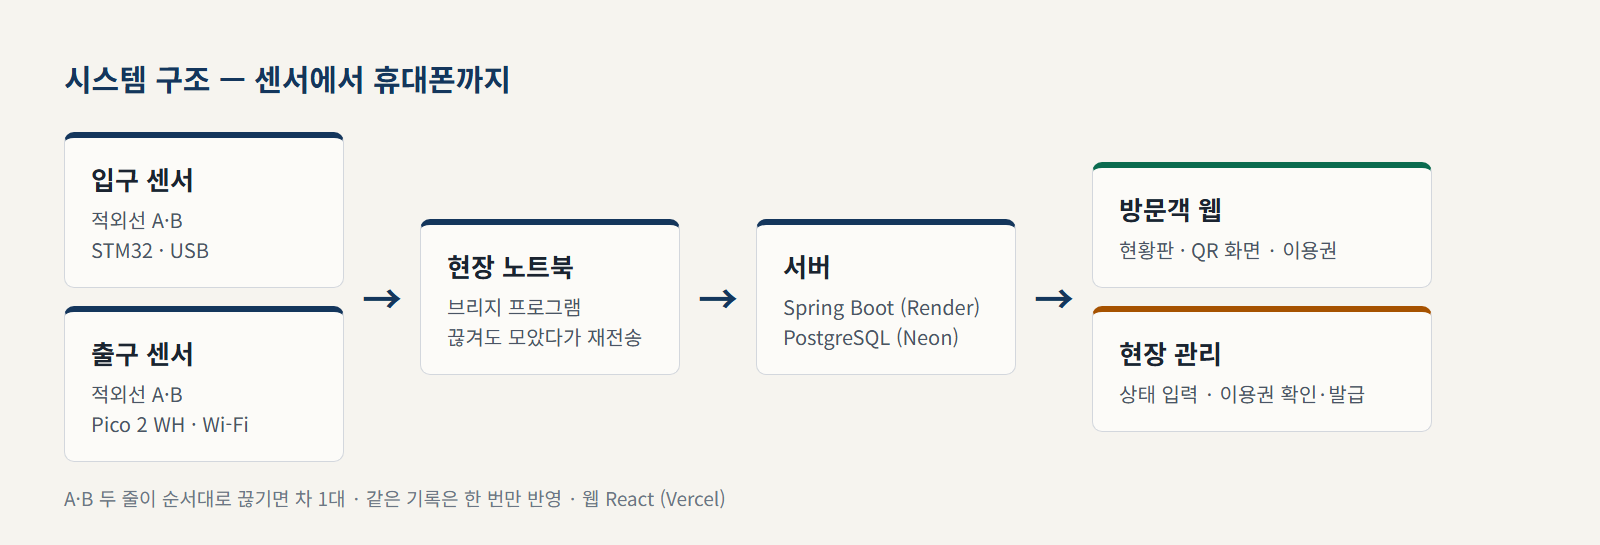
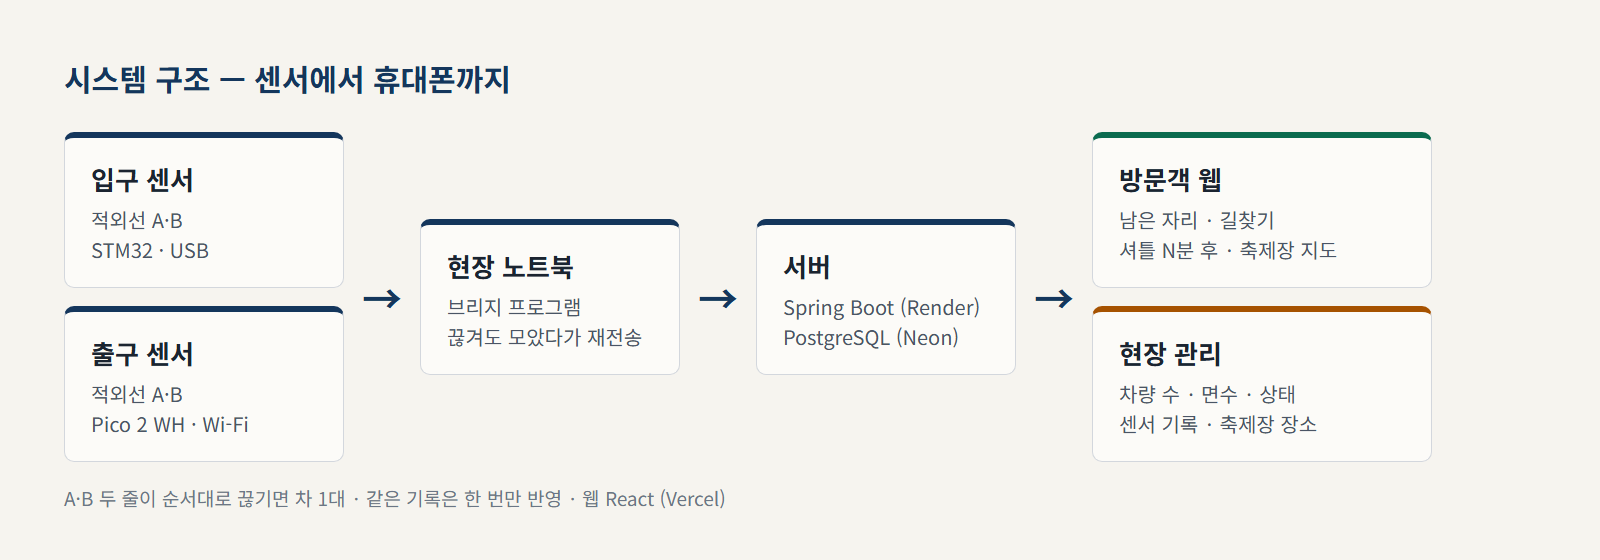
기획문서 v3(ERD V1~V6·API 15개·셔틀 규칙), 구조도·흐름도와 화면 캡처를 현재 화면으로 교체

diff --git a/docs/img/diagrams.html b/docs/img/diagrams.html
@@ -36,22 +36,22 @@ h1 { font-size: 30px; font-weight: 700; color: #14365C; margin-bottom: 32px; }
 <div class="box" style="width:260px;"><h3>서버</h3><p>Spring Boot (Render)<br>PostgreSQL (Neon)</p></div>
 <div class="arrow">→</div>
 <div class="col" style="width:340px;">
-<div class="box gift"><h3>방문객 웹</h3><p>현황판 · QR 화면 · 이용권</p></div>
-<div class="box busy"><h3>현장 관리</h3><p>상태 입력 · 이용권 확인·발급</p></div>
+<div class="box gift"><h3>방문객 웹</h3><p>남은 자리 · 길찾기<br>셔틀 N분 후 · 축제장 지도</p></div>
+<div class="box busy"><h3>현장 관리</h3><p>차량 수 · 면수 · 상태<br>센서 기록 · 축제장 장소</p></div>
 </div>
 </div>
 <p class="note">A·B 두 줄이 순서대로 끊기면 차 1대 · 같은 기록은 한 번만 반영 · 웹 React (Vercel)</p>
 </div>
 
 <div class="board" id="flow">
-<h1>서비스 흐름 — 먼 주차장에 대면 무료이용권</h1>
+<h1>서비스 흐름 — 여유 있는 먼 주차장에 대고 셔틀로</h1>
 <div class="row" style="align-items:stretch;">
-<div class="step"><p class="n">1</p><p class="t">먼 주차장에 주차</p><p class="d">강 건너 위라리 둔치<br>(화천대교 쪽)</p></div>
-<div class="step"><p class="n">2</p><p class="t">입구 안내판 QR</p><p class="d">휴대폰 카메라로 찍기</p></div>
-<div class="step"><p class="n">3</p><p class="t">센서가 입차 확인</p><p class="d">실제로 들어온 차만</p></div>
-<div class="step key"><p class="n">4</p><p class="t">무료이용권</p><p class="d">눈썰매 등 체험 2회<br>(낚시 제외, 검토 중)</p></div>
-<div class="step"><p class="n">5</p><p class="t">셔틀로 축제장</p><p class="d">안내소에서 이용권 사용</p></div>
+<div class="step"><p class="n">1</p><p class="t">현황 보기</p><p class="d">"여기에 대세요"<br>남은 자리 많은 곳 추천</p></div>
+<div class="step"><p class="n">2</p><p class="t">카카오맵 길찾기</p><p class="d">지금 위치 → 주차장<br>버튼 한 번</p></div>
+<div class="step key"><p class="n">3</p><p class="t">위라리 둔치 주차</p><p class="d">입구 센서가 세서<br>남은 자리 바로 반영</p></div>
+<div class="step"><p class="n">4</p><p class="t">셔틀 타기</p><p class="d">다음 셔틀 N분 후<br>축제장까지 약 10분</p></div>
+<div class="step"><p class="n">5</p><p class="t">축제장 즐기기</p><p class="d">낚시터·체험장·먹거리<br>지도로 찾기</p></div>
 </div>
-<p class="note">휴대폰이 어려운 분은 주차장 직원이 차량번호로 대신 발급 · 입차 1건 = 1장 · 차량당 하루 1장</p>
+<p class="note">먼 주차장에 대고 셔틀을 타면 체험 이용권(화천군 지급) · 직원은 현장 관리 화면에서 차량 수·면수를 바로 고침</p>
 </div>
 </body></html>

diff --git a/docs/기획문서.md b/docs/기획문서.md
@@ -1,135 +1,138 @@
-# 화천 Parking Mate 기획문서 (v2, 2026-11-15)
+# 산천어축제 안내 기획문서 (v3, 2026-11-16)
 
-> **2026-11-16 변경:** 팀 결정으로 QR·무료이용권 기능을 코드에서 뺐다. 지금 서비스는 남은 자리 안내(센서 집계) + 셔틀 안내 + 현장 관리다. 아래 이용권·QR 관련 내용은 결정 이전 기록이며, 발표 흐름은 새로 정해야 한다.
+KNU RE:RISE 7팀 · 배포: 웹 https://parking-mate.vercel.app · 서버 https://parkingmate-api.onrender.com (API 명세 `/swagger-ui.html`)
 
 ## 1. 한 줄 정의
-축제 주차장의 **남은 자리**를 실시간으로 보여 주고, **먼 임시주차장에 주차한 방문객에게 무료이용권**을 주어 스스로 분산 주차하게 만드는 서비스.
+축제 임시주차장의 **남은 자리**를 입·출구 센서로 세어 보여 주고, **셔틀 도착 시간·예상 위치**와 **축제장 안내 지도**를 함께 제공해서, 방문객이 가까운 주차장에 몰리지 않고 **여유 있는 먼 주차장에 대고 셔틀로 오게** 돕는 서비스.
 
-## 2. 방향이 바뀐 이유 (2026-11-12 교통 담당자 인터뷰)
+## 2. 방향이 바뀐 과정
+### 2-1. 2026-11-12 교통 담당자 인터뷰 후
 | 기존 구상 | 담당자 의견 | 바뀐 방향 |
 |---|---|---|
 | QR 예약 전용 주차장, 30분 자리 확보 | 현장 차량만으로도 이미 만차라 예약 자리를 비워 둘 수 없음. 고령 방문객이 많아 젊은 층 특혜로 보일 수 있음 | 예약은 하지 않음 |
-| 빈자리 기준 자동 배정 | 방문객은 "나 한 대 댈 자리는 있겠지" 하며 가까운 주차장으로 감. 강 건너 부지는 심리적으로 멀게 느낌 | **먼 주차장에 댈 이유(혜택)**를 줌 |
-| 센서로 입·출차 집계 | 지금은 직원이 주차장마다 직접 보고 공유함. 눈이 오면 주차선이 안 보여 사람이 판단해야 함 | 센서 집계 + **관리자가 운영 가능 면수와 상태를 수정** |
-| — | 먼 주차장 이용자에게 무료이용권을 주는 방안을 검토 중. 확인과 발급 과정을 편하게 해 주면 좋겠음 | **실물 QR → 주차 확인 → 이용권 발급·사용 처리** |
+| 빈자리 기준 자동 배정 | 방문객은 "나 한 대 댈 자리는 있겠지" 하며 가까운 주차장으로 감. 강 건너 부지는 심리적으로 멀게 느낌 | **먼 주차장에 댈 이유**를 줌 |
+| 센서로 입·출차 집계 | 지금은 직원이 주차장마다 직접 보고 무전으로 공유. 눈이 오면 주차선이 안 보여 사람이 판단 | 센서 집계 + **직원이 운영 가능 면수·상태를 수정** |
+
+### 2-2. 2026-11-16 팀 결정
+- **이용권 발급·QR 기능은 뺌.** 이용권 지급은 화천군(축제 운영) 쪽이 맡는 게 맞다고 판단. 서비스에는 "위라리 둔치에 대고 셔틀을 타면 체험 이용권을 드려요" **안내만** 남김.
+- 대신 방문객이 "어디에 대고, 셔틀은 언제 오고, 축제장에서 뭘 할 수 있는지"를 한 번에 알도록 **셔틀 예상 위치·남은 시간**과 **축제장 안내 지도**를 추가.
 
 ## 3. 사용자와 화면
 ### 방문객 (스마트폰)
-1. **지도 홈 `/`**: 모든 임시주차장, 남은 자리 또는 혼잡 상태, 셔틀 정류장 표시. 혜택 주차장 강조. 카카오맵 길찾기.
-2. **주차장 QR 화면 `/p/{주차장코드}`**: 주차장 입구 안내판의 실물 QR을 찍으면 열림. 이 주차장의 남은 자리, 가장 가까운 셔틀 다음 출발 시각, **무료이용권 받기**(차량번호 입력).
-3. **이용권 화면 `/v/{이용권코드}`**: 축제장 안내소에서 보여 줄 큰 코드와 QR.
-4. **셔틀 시간표 `/shuttle`**.
+| 화면 | 주소 | 하는 일 |
+|---|---|---|
+| 주차장 현황 | `/` | 맨 위 **"여기에 대세요"** 추천 1곳(남은 자리·셔틀·이용권). 여유/혼잡/만차 개수, 지도, 목록. 주차장을 누르면 화면 아래에 **[카카오맵 길찾기] [자세히]** |
+| 주차장 상세 | `/p/{코드}` | 남은 자리, 카카오맵 길찾기, 이용 혜택 안내, 그 정류장 다음 셔틀 N분 후, 셔틀로 축제장까지 N분 |
+| 셔틀 | `/shuttle` | 버스 앱처럼 **정류장 한 줄** + 정류장 사이 버스 위치, 정류장마다 "N분 후", 축제장 앞 정류장 표시. 지도는 "지도로 보기" |
+| 축제장 안내 | `/festival` | 낚시터·체험장·먹거리·접수처 25곳 지도와 목록, 요금, 길찾기 |
 
-### 현장 직원·담당자 (노트북·휴대폰)
-5. **관리 화면 `/admin`**: 주차장별 차량 수 +/− 수정, 운영 가능 면수(눈 올 때), 상태(여유·혼잡·만차·운영중지) 지정. 이용권 확인·사용 처리. **스마트폰을 못 쓰는 방문객 대리 발급**.
+### 현장 직원·담당자 (휴대폰·노트북) `/admin`
+- **주차장 탭**: 주차장 지도(지금 차량 수, 5초 갱신, 핀을 누르면 그 주차장 조정 칸으로), 센서 기록(오늘 입차·출차, 입구·출구 연결 상태), 주차장별 차량 수 ±1/±10, 상태(자동·여유·혼잡·만차·운영 안 함), 운영 가능 면수(눈 올 때), 시연 초기화
+- **축제장 장소 탭**: 지도를 눌러 장소 추가, 핀을 눌러 수정·위치 이동·삭제
 
-## 4. 이용권 발급 규칙 (부정 발급 방지)
-- 혜택 대상 주차장에서만 발급. 담당자가 말한 대상은 **강 건너 화천대교 쪽 큰 부지(위라리 둔치로 추정)** 뿐 (녹음 10:10, 17:13~18:24). 실버복지센터·구 헌병대는 팀 확대 후보로만 기록(이용권 꺼 둠).
-- **차량번호 1대당 하루 1장**.
-- 센서가 설치된 주차장은 **최근 90분 안에 센서가 기록한 입차 1건과 이용권 1장을 짝지음**. 입차 기록이 남아 있지 않으면 발급하지 않고 직원에게 안내함. 집에서 QR 사진만 찍어서 받는 것을 막고, 실제로 들어온 차보다 많이 발급되지 않음.
-- 직원 대리 발급은 센서 짝이 없어도 가능하며 기록에 "직원 발급"으로 남김.
-- 이용권 종류는 **검토 중**. 녹음 10:20~11:05: "눈썰매나 이런 프로그램들, 낚시는 제외하고, 기타 놀거리들, 두 번 탈 수 있는 정도". 화면에는 "체험 프로그램 무료이용권 · 눈썰매 등 2회(낚시 제외)" + "검토 중" 표시.
+## 4. 셔틀 계산 규칙
+- 공식 노선(2026): 화천체육관 → 청소년 수련관 → 화천실버복지센터 → 구 헌병대 → 정보산업고 → 시외버스터미널 → 배수펌프장 → 다시 체육관. 토·일 09:00~18:00, 약 20분 간격, 4대.
+- 정류장 사이 시간은 공개되지 않아 **10분으로 추정** → 한 바퀴 70분.
+- **버스 위치** = 첫 정류장 출발 시각부터 흐른 시간으로 계산한 **예상 위치**(실시간 GPS 아님). 화면에 그렇게 표시.
+- **축제장 앞 정류장** = 축제장 장소(낚시터·체험장 등) 300m 안 정류장: 청소년 수련관·구 헌병대·배수펌프장. "축제장까지 N분" = 탄 정류장에서 처음 만나는 축제장 앞 정류장까지.
+- `SHUTTLE_ALWAYS=true`(시연용 기본값): 운행표와 관계없이 매일 0시부터 20분 간격으로 계속 도는 것으로 계산. 실제 운영 시 `false`.
 
-### 녹음에서 확인된 운영 사실 (2026-11-12, 00:00~14:00)
+## 5. 인터뷰 기록 (2026-11-12, 녹음 대조)
+### 운영 사실 (00:00~14:00)
 - 금요일부터 증가, 월요일까지 감소. 화·수·목은 임시주차장 여유, 그 외 60~80% (00:30~01:32)
 - 토요일은 8시 30분이면 모든 주차장 만차 (04:29)
 - 축제장 양쪽 일방통행 구간 노상주차 운영, 불법주정차 구역은 별도 (01:47, 02:03)
 - 강 건너 큰 부지로 유도하려 하나 "강을 건너야 한다는 생각"에 잘 안 감. 진입을 막으면 정체가 길어져 결국 받아들임 (04:50~06:38)
 - 셔틀 20분 간격 (06:38). 인력: 올해 90명, 내년 120명, 주차장당 최소 6명, 무전으로 확인 (07:23~09:19). 차량 수는 "사람이 일일이 확인" (08:08)
 - 화천초 160면 (09:57). 2027 사용 여부는 녹음상 불명확 → 확인 필요
+- 이용권: "눈썰매나 이런 프로그램들, 낚시는 제외하고… 두 번 탈 수 있는 정도" (10:20~11:05)
 
-### 녹음 후반 (14:00~22:30)
-- **예약 주차장이 안 되는 이유**: "예약 낚시터분들도 5시에 오고 현장 낚시터분들도 5시에 와요… 주차 예약을 한다고 하면 이거를 비워놓는 상황이 생기잖아요" (15:11)
-- **고령층**: "키오스크를 어려워하시는 분들이 굉장히 많으신데… QR 주차장은 젊은 층에 대한 특혜라고 생각이 들어요" (15:11~16:40)
-- **담당자가 제안한 흐름 = 지금 구현**: "무료이용권을 주는 주차장에 적용을 하면, 차라리 QR로 하면 내가 이 주차장에 대겠다고 하는" (16:58) → "주차를 한 게 확인이 되면 무료이용권을 발급하고 핸드폰으로 발송을 하듯, 아니면 직접 컴퓨터를 가져와서 연동을 해서" (17:15~17:56)
-  - 우리 구현: QR → 센서 입차 확인 → 휴대폰 이용권(본인 발급) / 현장 노트북 관리 화면(직원 발급)
-- **셔틀**: 이용객이 많으면 "3대에서 5대까지 증차할 생각" (18:26). 공식 안내는 4대 → 시드는 공식값 4대 유지
-- **자료**: 교통계획은 담당자 보유, 일방통행·셔틀은 재단법인 나라 홈페이지 (19:14). "멘토링 할 때 따로 공개" — **멘토링 때 공유 약속, 아직 받지 않음** (19:38)
-- **500대**: 녹음에 없음 → 팀 통화 필기 값으로만 기록
+### 후반 (14:00~22:30)
+- 예약 주차장이 안 되는 이유: "주차 예약을 한다고 하면 이거를 비워놓는 상황이 생기잖아요" (15:11)
+- 고령층: "QR 주차장은 젊은 층에 대한 특혜라고 생각이 들어요" (16:40)
+- 담당자 제안: 먼 주차장 이용자에게 무료이용권 (16:58~18:24)
+- 셔틀: 이용객이 많으면 3~5대로 증차 생각 (18:26)
+- 자료: 교통계획은 담당자 보유, 일방통행·셔틀은 재단법인 나라 홈페이지. "멘토링 할 때 따로 공개" (19:14~19:38)
+- 500대: 녹음에 없음 → 팀 통화 필기 값
 
-### 현장 고충 (발표·문서용, 20:13~21:32)
-- 교통 통제 권한은 경찰에 있고, 일자리 근로자는 민간인이라 권한이 없음
-- 조례로는 법을 넘을 수 없어 법적 제도가 있으면 안전하게 보장받을 것 같다는 의견
-- 통제 중 사고가 나면 통제한 사람 책임 → 부담이 큼. 지역 자체가 고령화
-- 이 서비스와의 연결: 강제 통제 대신 **혜택으로 스스로 분산**하게 하는 방식이라 현장 인력의 통제 부담을 줄이는 방향 (기대효과, 미측정)
+### 현장 고충 (20:13~21:32)
+- 교통 통제 권한은 경찰에 있고, 일자리 근로자는 민간인이라 권한이 없음. 통제 중 사고가 나면 통제한 사람 책임 → 부담이 큼
+- 이 서비스와의 연결: 막아서 돌려보내는 대신 **정보와 혜택으로 스스로 분산**하게 해 통제 부담을 줄이는 방향 (기대효과, 미측정)
 
-## 5. 데이터 출처 원칙
+## 6. 데이터 출처
 | 데이터 | 출처 | 상태 |
 |---|---|---|
-| 임시주차장 11개소 + 캠핑카 1개소 이름 | 재단법인 나라 2026 축제 「임시 주차장 안내」 배치도 | 공식(2026) — 2027 업데이트 예정 |
-| 주말 셔틀 노선·시간 | 같은 사이트 「축제장 외부 주말 셔틀」: 토·일 09:00~18:00, 4대 순환, 약 20분 간격 | 공식(2026) |
-| 좌표 | OpenStreetMap 건물 위치. 없는 곳은 공식 배치도에서 **근사(±150m)** | 카카오 로컬 API로 보정 예정 |
-| 정류장별 도착 시각(수정) | 정류장 간 10분으로 추정 (4대·20분 간격 순환 기준) | 추정 |
-| 수용 면수 | 화천초 160면(녹음 09:57), 강 건너 부지 약 500대(팀 통화 필기) | 나머지는 **미확인** → "정보없음" 표시 |
-| 이용권 종류·수량 | 녹음 10:20: 눈썰매 등 2회, 낚시 제외 — 담당자 검토 중 | 검토 중 |
+| 임시주차장 11개소 + 캠핑카 1개소 | 재단법인 나라 2026 「임시 주차장 안내」 배치도 | 공식(2026) |
+| 주말 셔틀 노선·시간 | 같은 사이트 「축제장 외부 주말 셔틀」 | 공식(2026) |
+| 축제장 장소 25곳·요금 | 같은 사이트 「행사장 안내도」「산천어축제 체험료」 | 공식(2026) |
+| 좌표 | OSM 건물 위치, 없는 곳은 안내도를 지도에 맞춘 근사값(100~150m) | 카카오 장소 검색으로 보정 예정 |
+| 정류장별 시각 | 정류장 간 10분 추정 | 추정 |
+| 수용 면수 | 화천초 160면(녹음), 위라리 둔치 약 500대(팀 통화 필기) | 나머지 미확인 → "정보없음" |
 
-화면과 데이터에는 출처 상태를 함께 저장하고, 추정값을 공식값처럼 보여 주지 않는다.
-
-## 6. 시스템 구성
+## 7. 시스템 구성
 ```
 [입구 적외선 A·B] → STM32 ─USB─┐
-                               ├→ 노트북 브리지(sensor/bridge.py) ─HTTPS JSON→ Spring Boot API ─ PostgreSQL
-[출구 적외선 A·B] → Pico 2 WH ─Wi-Fi(HTTP)─┘                              ↑
-                                                         React 웹(방문객·관리자) ─┘
+                               ├→ 노트북 브리지(sensor/bridge.py) ─HTTPS JSON→ Spring Boot API ─ PostgreSQL(Neon)
+[출구 적외선 A·B] → Pico 2 WH ─Wi-Fi─┘                                    ↑
+                                              React 웹(방문객·현장 관리, Vercel) ┘
 ```
-- 프론트: React + Vite → **Vercel**
-- 백엔드: Spring Boot 4 (Java 21) → **Render** 무료 웹 서비스(Docker). 15분 동안 요청이 없으면 잠들고 깨는 데 약 1분 걸림 → 시연 전에 미리 깨워 두기.
-- DB: PostgreSQL → **Neon** 무료. 로컬 개발은 H2(PostgreSQL 모드)로 DB 설치 없이 실행.
-- 대안: 시연장 인터넷이 불안하면 노트북에서 백엔드를 직접 실행.
+- 프론트 React + Vite → Vercel / 백엔드 Spring Boot 4 (Java 21) → Render(Docker) / DB PostgreSQL → Neon
+- 지도: 카카오맵(JavaScript 키, 도메인 등록 필요), 실패 시 OpenStreetMap
+- main 에 push 하면 Vercel·Render 자동 배포. Render 무료 서버는 15분 미사용 시 잠듦(첫 접속 약 1분)
 
-## 7. ERD
+## 8. ERD (Flyway V1~V6)
 ```
-parking_lot 1──N sensor_device 1──N vehicle_event N──0..1 voucher
-parking_lot 1──N voucher N──1 benefit
-shuttle_route 1──N shuttle_stop N──0..1 parking_lot
+parking_lot 1──N sensor_device 1──N vehicle_event
+parking_lot 1──N vehicle_event
+shuttle_route 1──N shuttle_stop
+festival_place (독립)
 ```
-| 테이블 | 주요 컬럼 |
+| 테이블 | 컬럼 |
 |---|---|
-| parking_lot | id, code(UK, QR 주소), name, category, lat, lng, coord_source, capacity, capacity_source, operable_capacity, current_count, manual_status, incentive, sensor_enabled, shuttle_stop, note, data_source, updated_at, version |
-| sensor_device | id, device_id(UK), lot_id(FK), gate(ENTRY/EXIT), last_seq, last_seen_at |
-| vehicle_event | id, device_id, lot_id(FK), direction(IN/OUT), seq, occurred_at, received_at, voucher_id(FK, 짝지은 이용권) · UK(device_id, seq) |
-| benefit | id, name, description, active, is_example |
-| voucher | id, code(UK), lot_id, benefit_id, plate_number, festival_date, channel(SELF/STAFF), status(ISSUED/REDEEMED/VOID), issued_at, redeemed_at · UK(plate_number, festival_date) |
-| shuttle_route | id, name, days, first_departure, last_departure, interval_minutes, bus_count, source |
-| shuttle_stop | id, route_id, seq, name, lat, lng, offset_minutes, offset_source, lot_id |
+| parking_lot | id PK, code UK, name, category(REMOTE/SHUTTLE/NEAR/ACCESSIBLE/CAMPING), lat, lng, coord_source, capacity, capacity_source, operable_capacity, current_count, manual_status(AUTO/AVAILABLE/BUSY/FULL/CLOSED), incentive(이용권 안내 대상), sensor_enabled, shuttle_stop, note, data_source, sort_order, updated_at, version |
+| sensor_device | id PK, device_id UK, lot_id FK→parking_lot, gate(ENTRY/EXIT), last_seq, last_seen_at |
+| vehicle_event | id PK, device_id, lot_id FK→parking_lot, direction(IN/OUT), seq, occurred_at, received_at · UK(device_id, seq) |
+| shuttle_route | id PK, name, days, first_departure, last_departure, interval_minutes, bus_count, source |
+| shuttle_stop | id PK, route_id FK→shuttle_route, seq, name, lat, lng, offset_minutes, offset_source, coord_source |
+| festival_place | id PK, name, category(FISHING/SNOW/CULTURE/FOOD/INFO/ETC), description, fee, lat, lng, coord_source, info_source, sort_order, updated_at |
 
-## 8. 도메인별 API
-| 도메인 | 메서드·경로 | 설명 |
-|---|---|---|
-| 주차장 | GET /api/lots | 전체 목록 + 남은 자리·혼잡도 |
-| | GET /api/lots/{code} | 한 곳 상세 |
-| | PATCH /api/admin/lots/{code} | 차량 수·운영 가능 면수·상태 수정 (관리자) |
-| 센서 | POST /api/sensor/events | 입·출차 이벤트 1건 또는 묶음 (센서 키) |
-| | GET /api/admin/lots/{code}/events | 최근 이벤트 (관리자) |
-| 셔틀 | GET /api/shuttle | 노선·정류장·다음 출발 시각 |
-| 혜택 | GET /api/benefits | 이용권 종류 |
-| 이용권 | POST /api/vouchers | 방문객 발급 |
-| | GET /api/vouchers/{code} | 이용권 조회 |
-| | POST /api/admin/vouchers | 직원 대리 발급 |
-| | POST /api/admin/vouchers/{code}/redeem | 사용 처리 |
-| | GET /api/admin/summary | 오늘 발급·사용·입출차 합계 |
-| 공통 | GET /api/now | 서버 기준 시각 (시연 시계 반영) |
-| | POST /api/admin/demo/reset | 시연 초기화: 이용권·센서 기록 삭제, 센서 주차장 차량 수 되돌림 |
-| | GET /swagger-ui.html | API 명세서 |
+마이그레이션: V1 스키마 · V2 2026 공식 시드 · V3 녹음 대조 수정 · V4 이용권 발급 테이블 삭제 · V5 축제장 장소 · V6 방문객 안내 문구
 
-관리 API는 `ADMIN_OPEN=true`(시연 기간)이면 키 없이 사용, 센서 API는 항상 `X-Sensor-Key` 필요.
+## 9. API
+| 도메인 | 메서드·경로 | 설명 | 인증 |
+|---|---|---|---|
+| 주차장 | GET /api/lots | 전체 목록 + 남은 자리·혼잡도·센서 상태 | - |
+| | GET /api/lots/{code} | 한 곳 상세 | - |
+| | PATCH /api/admin/lots/{code} | 차량 수(currentCount/delta)·운영 가능 면수·상태 수정 | 관리자 |
+| 센서 | POST /api/sensor/events | 입·출차 이벤트 묶음. 같은 deviceId+seq 는 한 번만 | 센서 |
+| | POST /api/sensor/heartbeat | 이벤트 없이 연결 신호 | 센서 |
+| | GET /api/admin/lots/{code}/events | 최근 센서 기록 | 관리자 |
+| | GET /api/admin/lots/{code}/sensors | 입구·출구 장치별 연결 상태 | 관리자 |
+| | GET /api/admin/summary | 오늘 입차·출차 수 | 관리자 |
+| 셔틀 | GET /api/shuttle | 노선·정류장(다음 출발, N분 후, 축제장까지 N분)·버스 예상 위치 | - |
+| 축제장 | GET /api/places | 축제장 장소 목록 | - |
+| | POST /api/admin/places | 장소 추가 | 관리자 |
+| | PATCH /api/admin/places/{id} | 장소 수정·위치 이동 | 관리자 |
+| | DELETE /api/admin/places/{id} | 장소 삭제 | 관리자 |
+| 공통 | GET /api/now | 서버 기준 시각(시연 시계 반영) | - |
+| | POST /api/admin/demo/reset | 시연 초기화: 센서 기록 삭제, 위라리 차량 수 188대로 | 관리자 |
 
-인증: 관리자 `X-Admin-Key`, 센서 `X-Sensor-Key` (환경 변수, 저장소에 올리지 않음).
+인증: 관리자 `X-Admin-Key`(`ADMIN_OPEN=true`면 생략), 센서 `X-Sensor-Key`(항상 필요). 값은 환경 변수에만 둔다.
 
 ### 센서 JSON
 ```json
 POST /api/sensor/events
 { "events": [ { "deviceId": "entry-stm32", "seq": 41, "direction": "IN", "occurredAt": "2027-01-16T09:12:03+09:00" } ] }
+→ { "accepted": 1, "duplicates": 0, "errors": [] }
 ```
-같은 `deviceId + seq`는 한 번만 반영된다(재전송 안전).
 
-## 9. 발표에서 구분할 것
-- **구현·시연**: 웹 지도, QR 화면, 이용권 발급·사용, 관리자 수정, 센서 → 남은 자리 반영
-- **가정·예시**: 주차장 위치 일부, 면수 대부분, 정류장별 시각, 이용권 종류, 혜택 대상 주차장
-- **기대효과(미측정)**: 먼 주차장 이용 증가, 직원 확인·발급 업무 감소
+## 10. 발표에서 구분할 것
+- **구현·시연**: 주차장 현황·추천·길찾기, 센서 → 남은 자리 반영, 셔틀 예상 위치·N분 후, 축제장 안내 지도, 현장 관리(차량 수·면수·상태·장소)
+- **가정·예시**: 일부 주차장 위치(근사), 면수 대부분(정보없음), 정류장별 시각(10분 추정), 버스 위치(시간표 계산)
+- **기대효과(미측정)**: 먼 주차장 이용 증가, 가까운 주차장 진입 감소, 직원 무전 확인 업무 감소
 
-## 10. 남은 확인 사항 (멘토링 때 담당자에게)
-1. 각 임시주차장의 정확한 위치와 면수, 2027 축제 사용 여부
+## 11. 남은 확인 사항 (멘토링 때 담당자에게)
+1. 각 임시주차장의 정확한 위치와 면수, 2027 축제 사용 여부(특히 화천초)
 2. "강 건너 약 500대" 부지가 위라리 둔치인지
-3. 이용권 종류·수량·조건과 혜택 대상 주차장
-4. 주차 확인과 이용권 사용 처리를 맡을 인력과 장소
+3. 이용권 지급 방식·장소(화천군 운영)와 대상 주차장
+4. 정류장별 실제 도착 시각, 증차 계획
